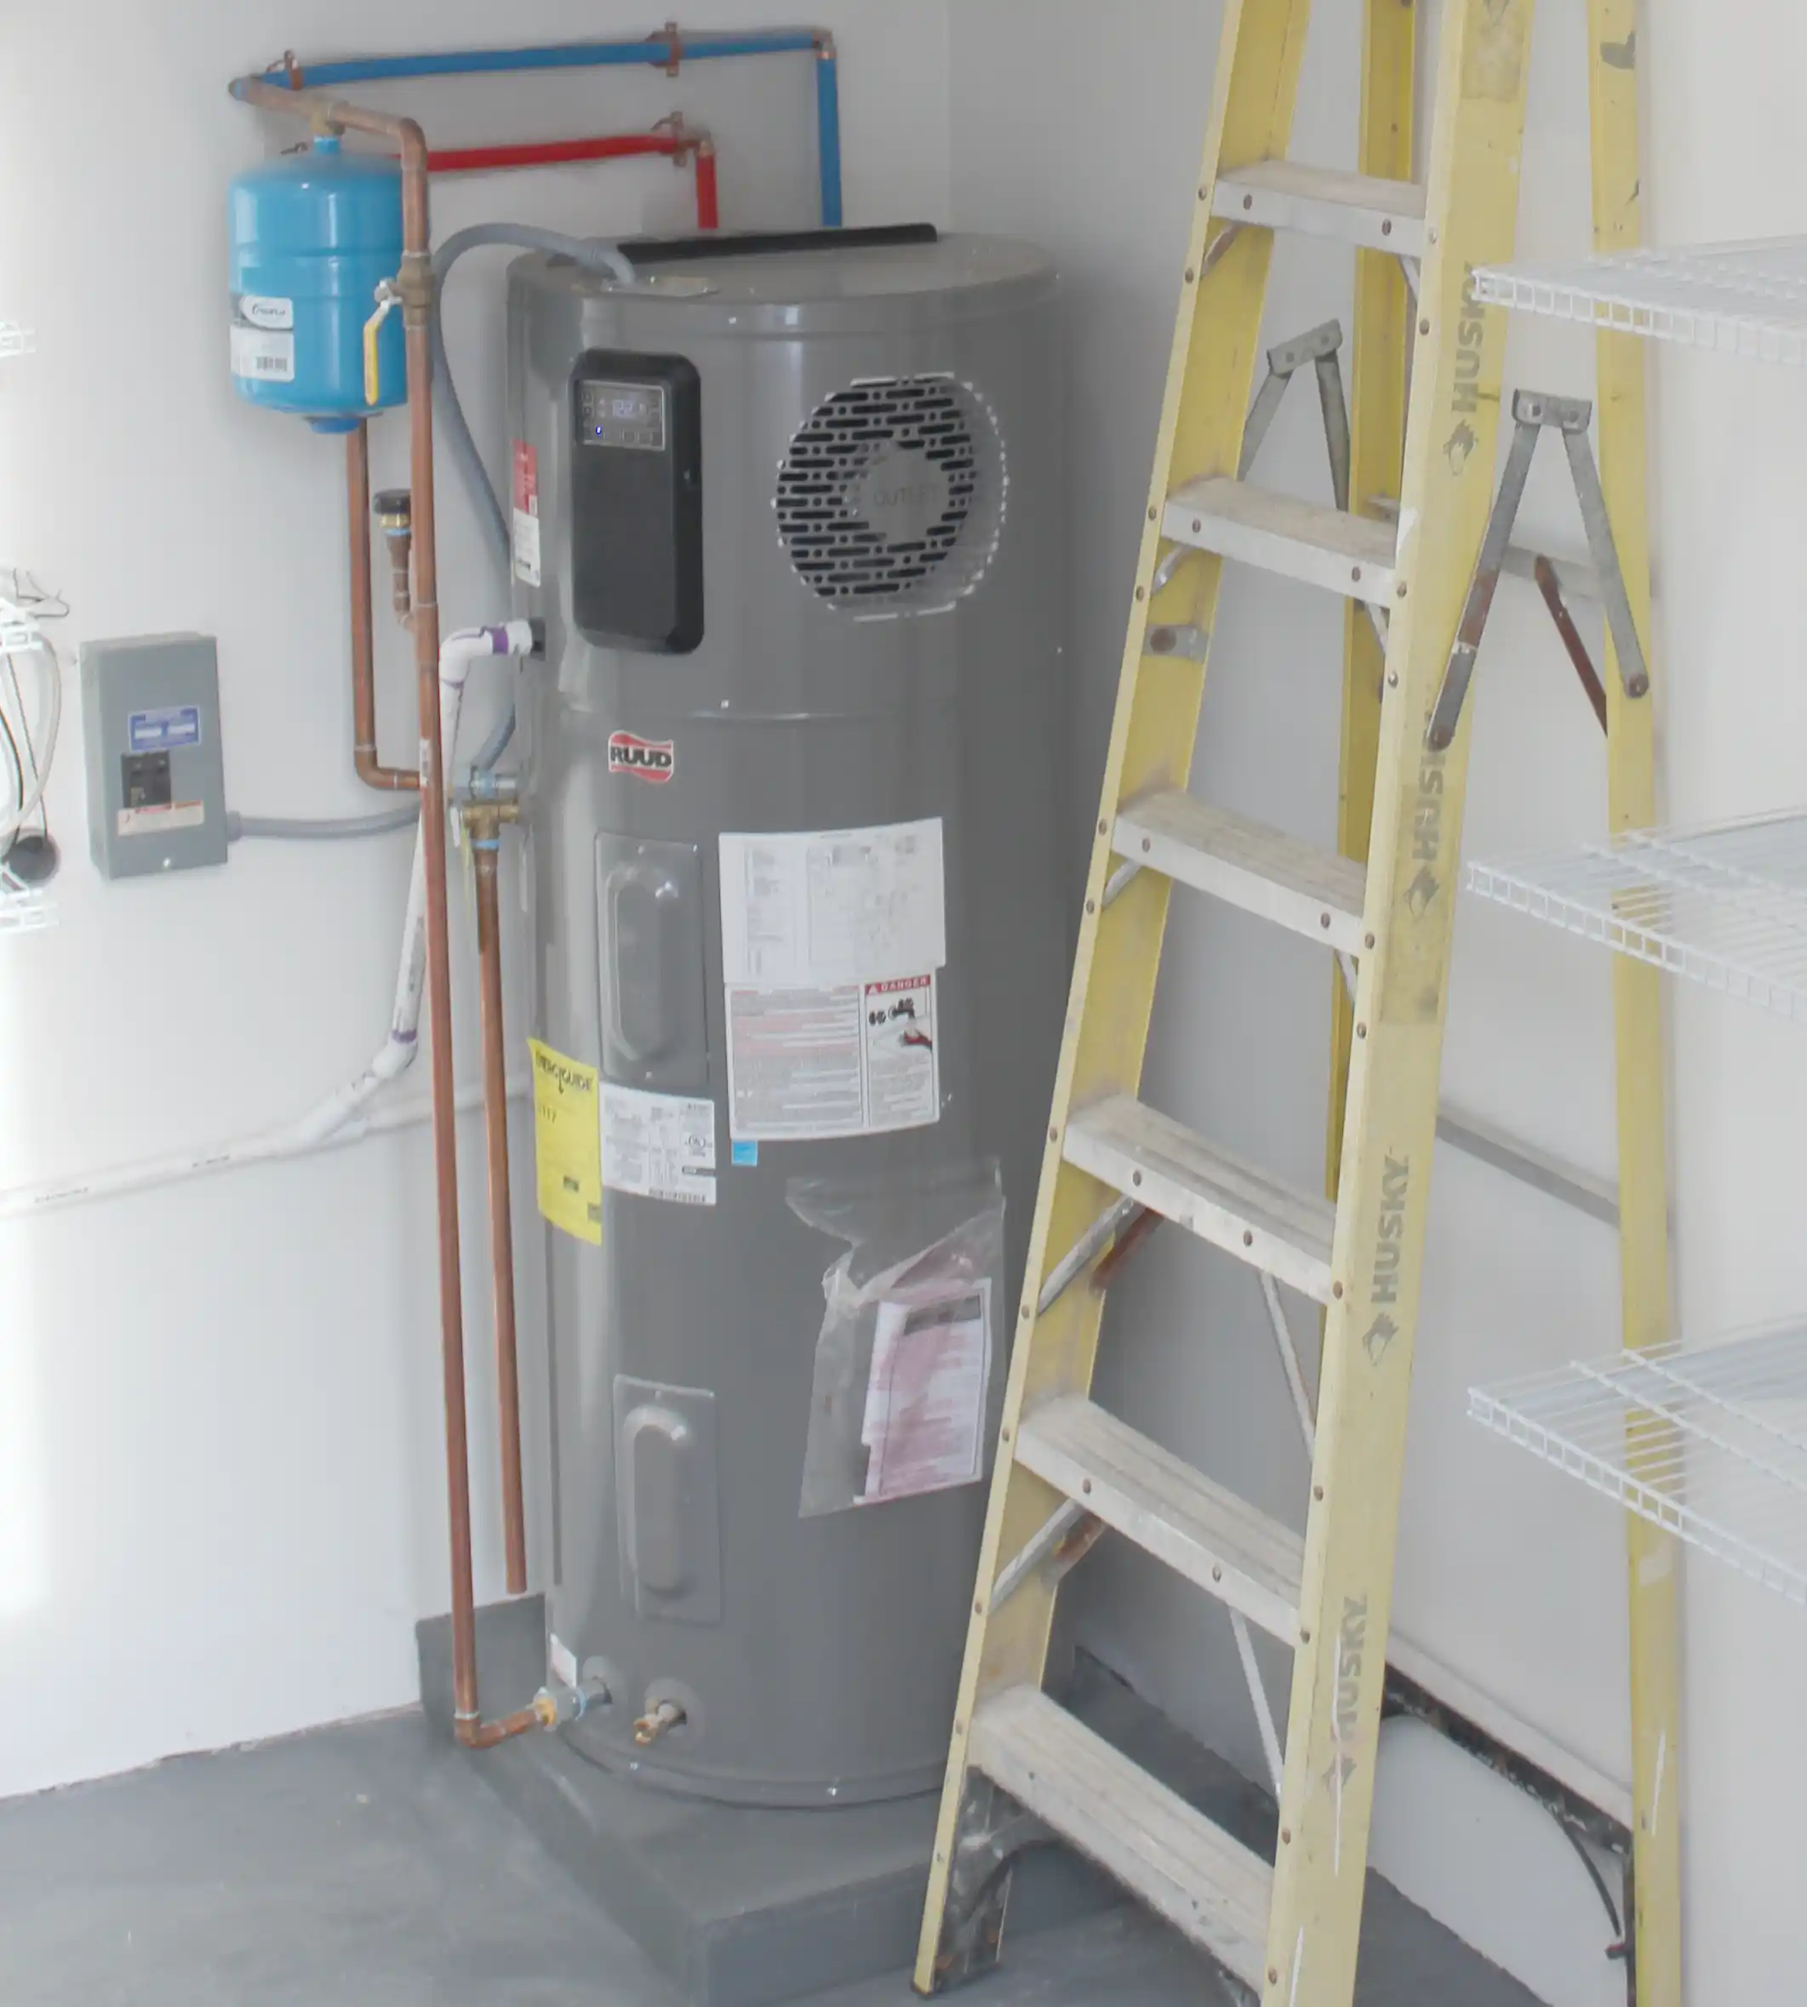
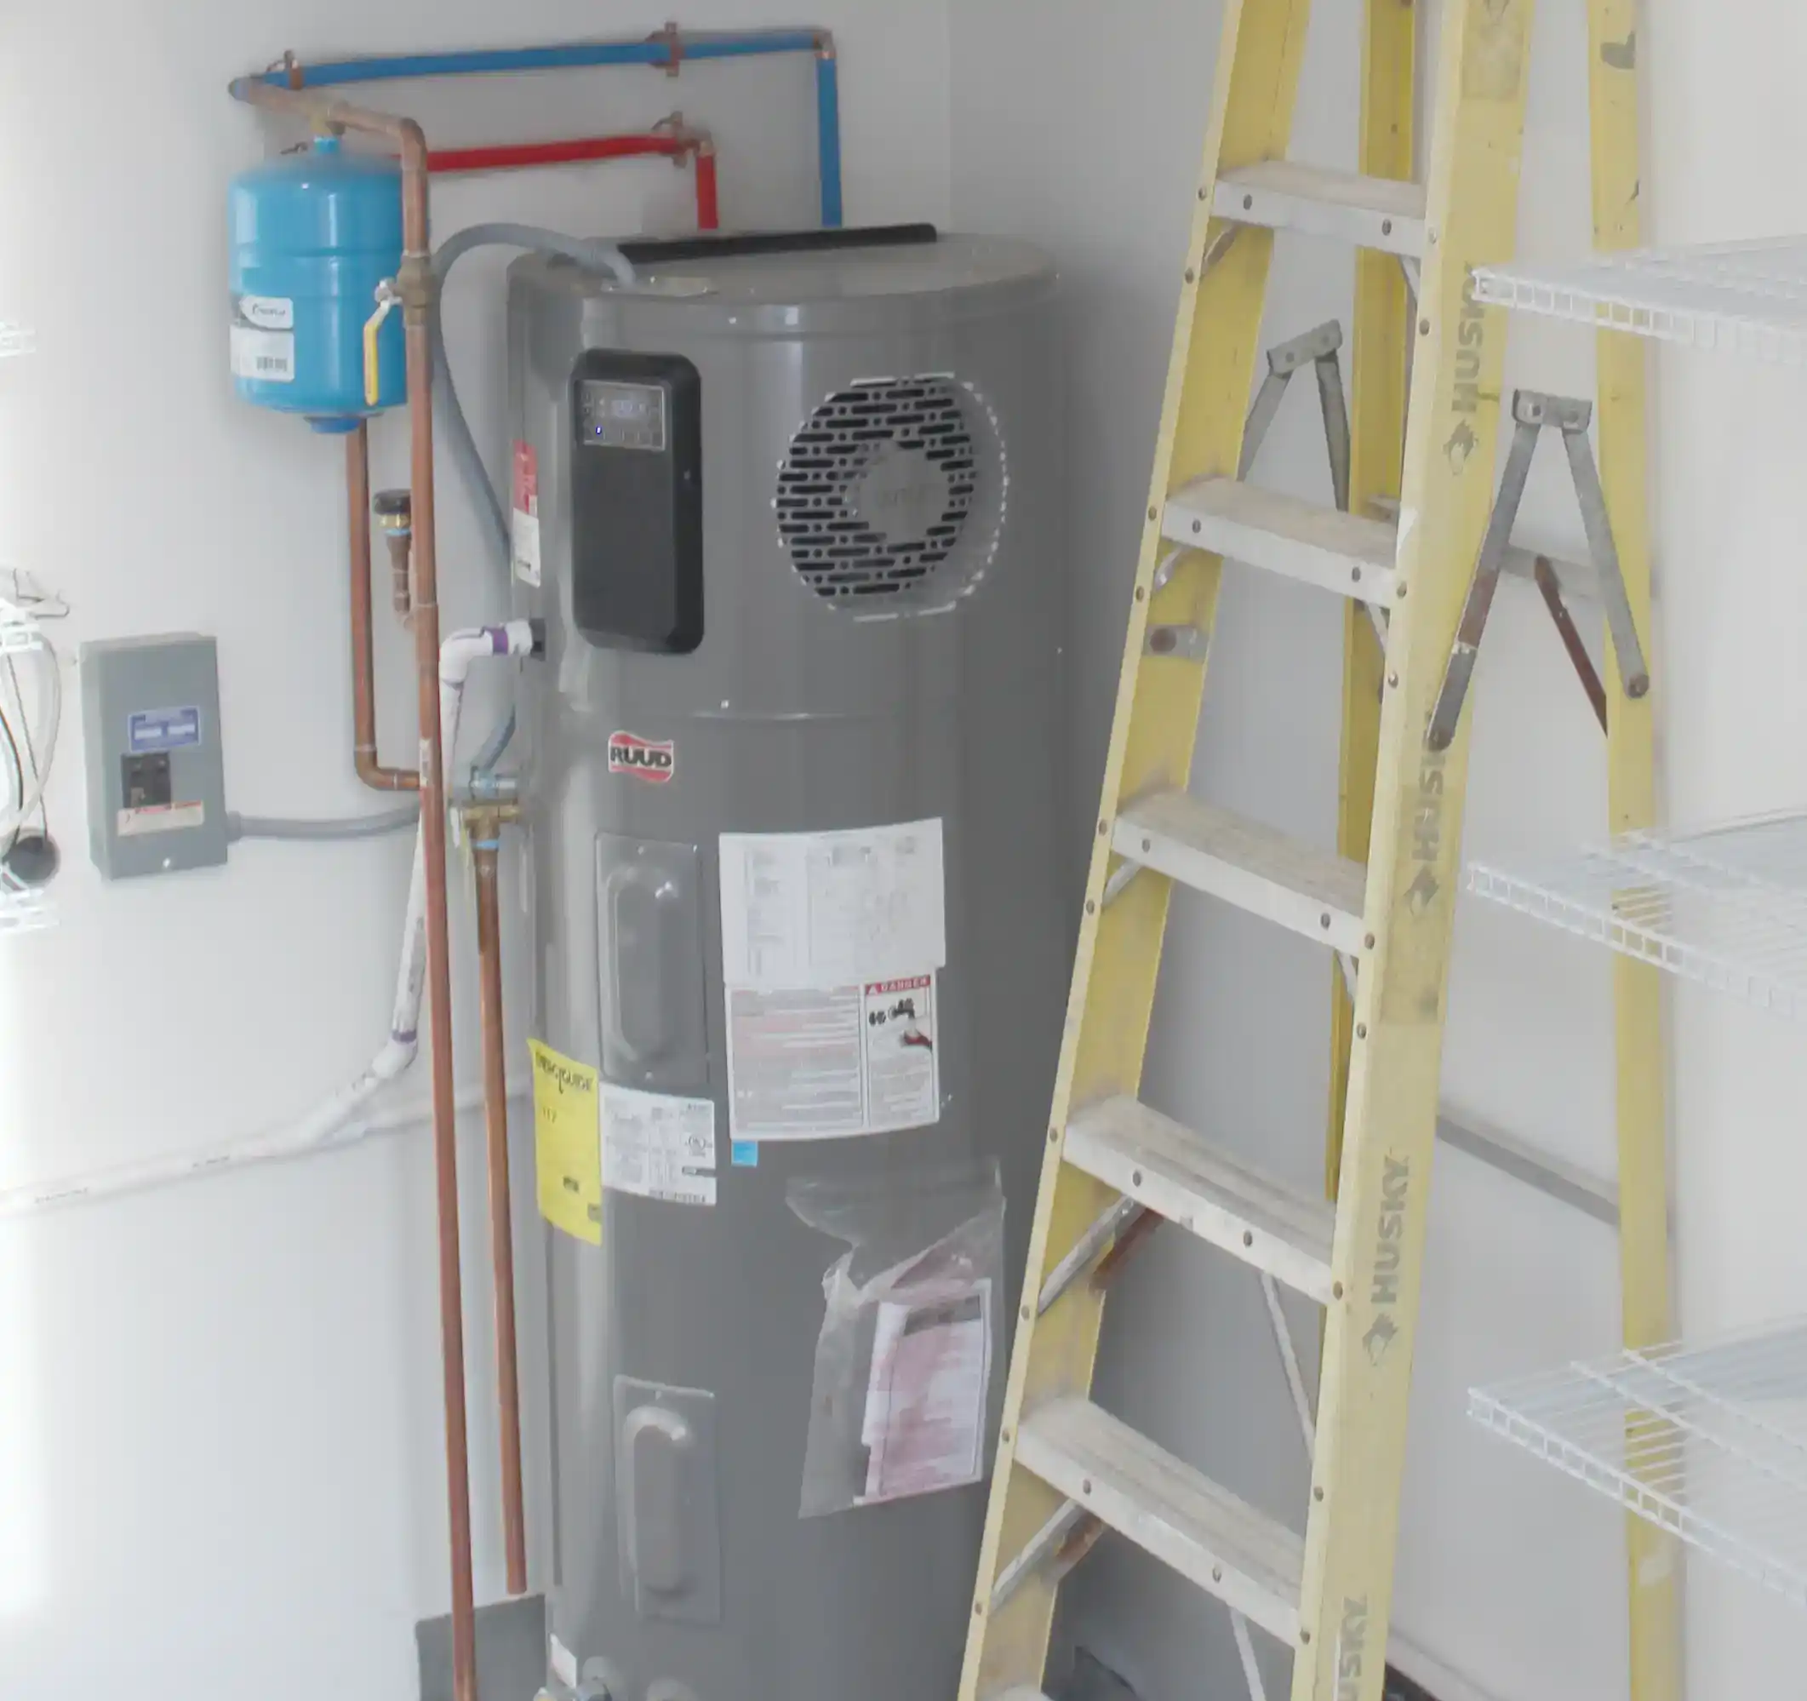
plumbing page updated

diff --git a/frontend/src/data/galleryIndex.js b/frontend/src/data/galleryIndex.js
@@ -170,6 +170,10 @@ export const galleryIndex = {
 
   "plumbing": [
     { id: "img01", imageUrl: "/images/img-01-plumbing.webp", title: "heat pump domestic hot water heater", shortAnnotation: "", fullAnnotation: "heat pump domestic hot water heating in Storage 1. Ruud PROH59, 50 gallon wotj an energy factor of 3.5" },
-
+    { id: "img05", imageUrl: "/images/img-05-plumbing.webp", title: "Apartment 1 Kitchen", shortAnnotation: "", fullAnnotation: "Apartment 1 Kitchen" },
+    { id: "img06", imageUrl: "/images/img-06-plumbing.webp", title: "Apartment 1 Kitchen", shortAnnotation: "", fullAnnotation: "Apartment 1 Kitchen" },
+    { id: "img04", imageUrl: "/images/img-04-plumbing.webp", title: "Apartment 1 Bath 1", shortAnnotation: "", fullAnnotation: "Apartment 1 Bath 1" },
+    { id: "img03", imageUrl: "/images/img-03-plumbing.webp", title: "Apartment 1 Bath 1", shortAnnotation: "", fullAnnotation: "Apartment 1 Bath 1" },
+    { id: "img02", imageUrl: "/images/img-02-plumbing.webp", title: "Apartment 1 Bath 2", shortAnnotation: "", fullAnnotation: "Apartment 1 Bath 2" },
   ],
 };

diff --git a/frontend/src/components/pages/PlumbingPage.jsx b/frontend/src/components/pages/PlumbingPage.jsx
@@ -14,9 +14,10 @@ export default function PlumbingPage() {
         capText="heat pump domestic hot water heater"
         h1Text="Plumbing"
       >
-        <p className="text-base text-gray-700">
-          [Placeholder — describe domestic hot water and plumbing upgrades here.]
-        </p>
+        <p className="text-base text-gray-700">The "lowboy" electric domestic hot water heaters were replaced by heat pump domestic hot water heaters, one per apartment.</p>
+        <p className="text-base text-gray-700">A half-bath was added for each apartment. Space from the eliminated common laundry room and a closet from each apartment was repurposed to create the bathrooms.</p>
+        <p className="text-base text-gray-700">Stacked washer/ dryer appliances were added for each apartment, replacing the common laundry.</p>
+        <p className="text-base text-gray-700">The kitchen sinks and existing batrooms were completely renovated.</p>
       </PageIntro>
 
       {/* <MarkdownPage content={content} /> */}
